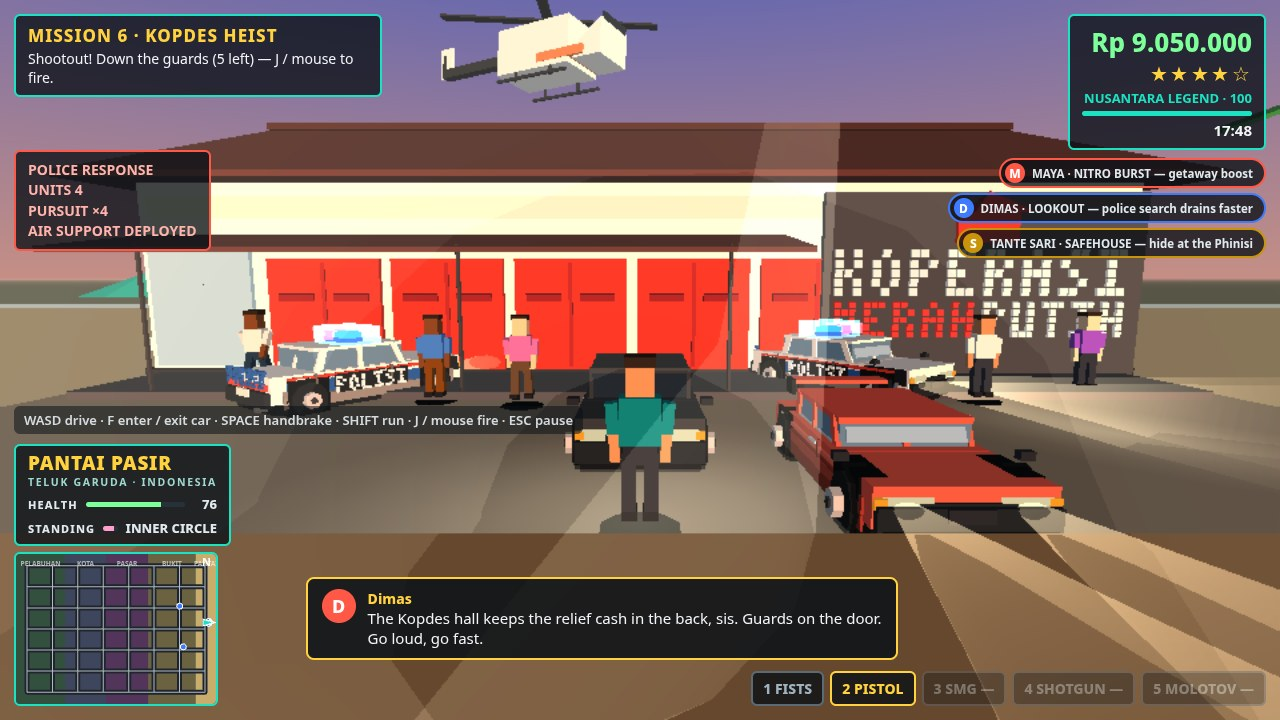
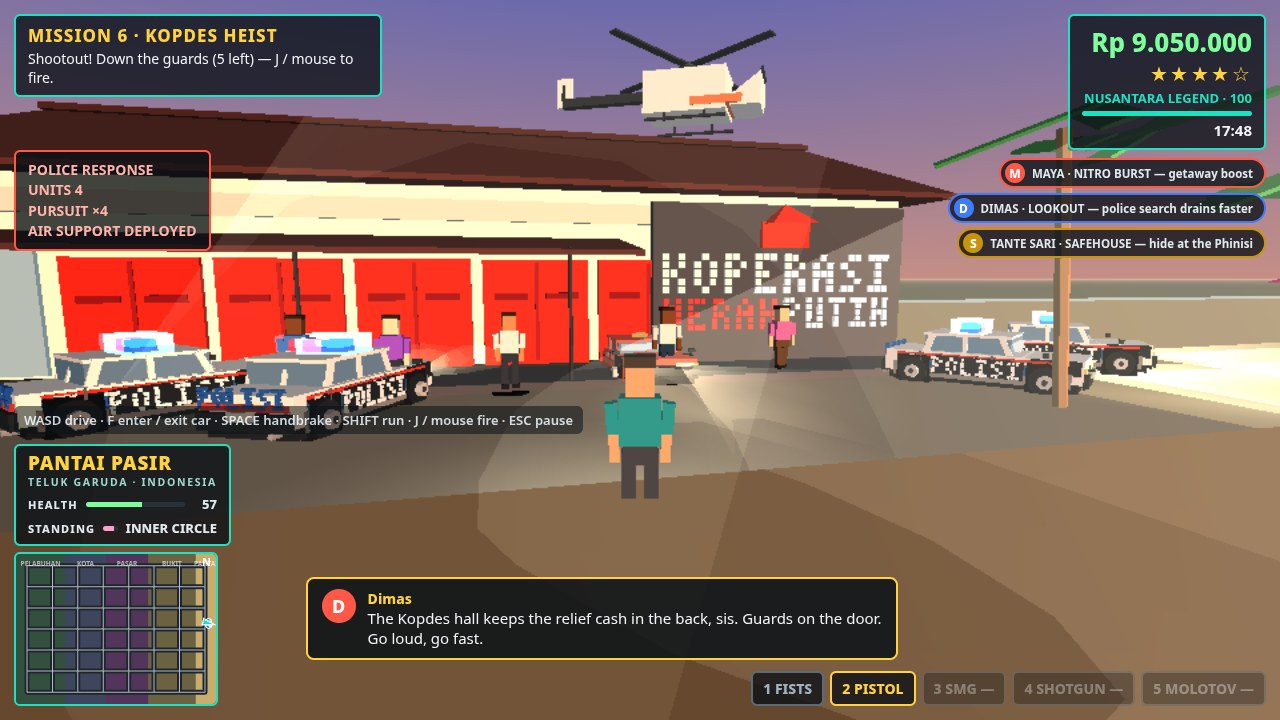
F4C iter4: mission-peak restaging + POLISI livery plates
- shots3d: frames 1-3 restaged per comparator rounds 2-3 and verified take-by-take from the shipped files (no full capture pass): kopdes heli fully in frame + sign clear of HUD chips + spark take; MBG on-foot with corner flame clusters and sign clear of smoke; karhutla camera along the fire line — heli large, bucket + stream + splash connected, plume out of frame. Frame 4 (coup, judged LAYAK) byte-untouched.
- city3d: police door lettering on dark plates + larger glyphs (letters washed out on the blue stripe and read as mirrored at dossier distance).

diff --git a/game/src/shots3d.js b/game/src/shots3d.js
@@ -317,13 +317,22 @@
      the camera: fully in frame, cone raking down to Mara. */
   function placeCoverTableau() {
     var u = activeUnits();
-    // Units must sit at low azimuth from the foot camera (half-FOV
-    // ~46 deg): marks on the facade line itself, flanking the guard
-    // line, clear of the sign panel (z -31.6..-27.2).
-    placeUnit(u[0], 547, -44.5, -2.2);   // north doors, angled in
-    placeUnit(u[1], 548, -33, 2.2);      // south doors, angled in
+    // G-A repair: Mara now stages SOUTH of the sign panel (panel
+    // spans z -33.3..-25.1, y 0.2..4.9 on the facade's south
+    // section), so from her camera the panel reads centre-frame —
+    // its top-right corner lands around screen x ~675/1280, well
+    // clear of the DOM crew-chip stack (x >= ~1000). Units sit at
+    // low azimuth from the foot camera (half-FOV ~46 deg).
+    placeUnit(u[0], 545, -41, -2.0);    // north doors, angled in
+    placeUnit(u[1], 545, -25.5, 2.2);   // south foreground, angled in
+    // G-A take 7: place EVERY active unit — at wanted 4 there are
+    // up to four, and in take 6 an unplaced unit drove up during
+    // the scan and parked on Mara's back, filling the foreground
+    // with its lightbar in the frozen frame.
+    placeUnit(u[2], 546, -44.5, -2.4);  // far north doors
+    placeUnit(u[3], 547, -21, 2.4);     // far south foreground
     var gp = Coral3D.crowd.peds;
-    var line = [[546.5, -42.5], [546.5, -30.5], [547.5, -47], [547.5, -27.5], [546, -40.5]];
+    var line = [[546.5, -42], [546.5, -37.5], [547, -33.5], [546, -40], [547.5, -30]];
     [2, 5, 8, 11, 14].forEach(function (pi, gi) {
       if (gp[pi] && line[gi]) {
         gp[pi].x = line[gi][0]; gp[pi].z = line[gi][1];
@@ -333,40 +342,85 @@
     });
     setStride(gp[8], 1.1);   // mid-stride advance poses
     setStride(gp[14], 2.6);
-    // AIR ONE above the roofline at (556,-44): ~15 deg azimuth /
-    // ~16 deg elevation from the camera — clear of the top-left HUD
-    // panel and fully inside the frame (an earlier mark at z=-54
-    // sat at 43 deg azimuth, hidden behind the mission panel).
+    // AIR ONE FULLY in frame (G-A repair: the old y=10.5 mark put
+    // its rotor over the foot cam's +22 deg top edge — only the
+    // belly shipped). Take-2 mark (555,-30) y=9.5, over the roof's
+    // west slope: from the camera at (531.7,-38.1) it sits ~5 deg
+    // off-axis at ~23 deg elevation — screen ~(695,98) of 1280x720
+    // with the rotor top ~35 px inside the frame.
+    if (window.CoralPolice && CoralPolice.searchlight) CoralPolice.searchlight.poolRadius = 5.0;
     var h = CoralPolice.heliState;
-    h.x = 556; h.z = -41; h.y = 10.5; h.heading = 2.6;
-    h.tx = 539.5; h.tz = -38; // cone on Mara
+    h.x = 555; h.z = -30; h.y = 9.5; h.heading = 2.6;
+    h.tx = 538; h.tz = -36.5; // cone on Mara
     Coral3D.setTime(17.8);
   }
   function stageCover() {
     if (!window.__bigMission('kopdes', 'peak')) throw new Error('kopdes peak hook returned false');
     Coral3D.setTime(17.8); // golden hour on the west facade
     return delay(700).then(function () {
-      return exitCarTo(539.5, -38, -Math.PI / 2); // face EAST, into the facade
+      // G-A repair, take 2: Mara at (538,-36.5) — the gap in the
+      // x=535.6 palm row (palms at z -47 and -26; take 1 stood her
+      // directly in front of the -26 palm and its crown covered
+      // the sign). Heading -1.82 rad: east tipped ~14 deg south,
+      // which swings the sign panel (z -33.3..-25.1) to screen
+      // x ~595..850 of 1280 — clear of the crew-chip stack
+      // (x >= ~1000) and of both left HUD panels. Her aim line
+      // crosses the facade at z ~ -33.5, at the panel's north edge.
+      return exitCarTo(538, -36.5, -1.82);
     }).then(function () {
       // Spark backstop: a dark parked car side-on across the aim
-      // line, in front of the red doors (orange sparks pop on its
-      // dark flank; on her red sport car they vanished). Her own
-      // car parks off-line at the south doors. Both static while
+      // line 6.5 m ahead of Mara (orange sparks pop on its dark
+      // flank; on her red sport car they vanished). Closer than
+      // the old 8 m mark so the spark box reads larger. Her own
+      // car parks off-line behind the camera. Both static while
       // she is on foot.
-      placeBackstop(pickBackstop(), 543.5, -38, Math.PI / 2);
-      if (Coral3D.allCars[0]) {
-        Coral3D.allCars[0].x = 541; Coral3D.allCars[0].z = -34.8;
-        Coral3D.allCars[0].heading = Math.PI / 2; Coral3D.allCars[0].speed = 0;
+      // G-A take 4: Mara's own SPORT car as backstop. The spark
+      // box spawns at the target car's CENTRE (combat3d fire())
+      // and rises 1.0 -> ~1.43 m: a tall SUV swallowed it whole
+      // (take 2) and a sedan's ~1.35 m roof left it a ~0.1 m peek
+      // (take 3, still invisible). The sport car's roof is ~1.1 m,
+      // so the spark clears it by ~0.3 m and reads against the
+      // facade behind — the old 'sparks vanish on red paint'
+      // objection only applied while the spark sat ON the paint.
+      // 5.5 m ahead of Mara, on her aim line. The dark sedan the
+      // old code used parks off-line instead (below).
+      // G-A take 6: backstop at t=10.8 (548.5,-33.8), just west of
+      // the facade. Projection maths (verified against live
+      // captures): at the old t=5.5 the spark — which spawns on
+      // the aim line at the target's CENTRE — projects exactly
+      // behind Mara's head and is occluded in every take; at
+      // t=10.8 the risen spark (y up to 1.43) projects ~20 px
+      // ABOVE her head against the doors/panel. During the scan
+      // no hook-position guard sits inside the fire cone (all fail
+      // combat3d's lateral test), so the car is the target at any
+      // range and every shot sparks on it.
+      placeBackstop(Coral3D.allCars[0], 548.5, -33.8, Math.PI / 2);
+      var sedan = null, sedanLum = 1e9;
+      for (var si = 1; si < Coral3D.allCars.length; si++) {
+        var sc2 = Coral3D.allCars[si];
+        if (sc2.variant !== 'sedan') continue;
+        var scol = sc2.color || 0xffffff;
+        var slum = 0.3 * ((scol >> 16) & 255) + 0.5 * ((scol >> 8) & 255) + 0.2 * (scol & 255);
+        if (slum < sedanLum) { sedanLum = slum; sedan = sc2; }
       }
-      Coral3D.teleport(539.5, -38);
-      Coral3D.mara.heading = -Math.PI / 2;
+      if (sedan) placeBackstop(sedan, 533, -44, 0.3);
+      Coral3D.teleport(538, -36.5);
+      Coral3D.mara.heading = -1.82;
       return waitVisible(5000); // heli spotlight sees her almost at once
     }).then(function () {
-      Coral3D.teleport(539.5, -38);
-      Coral3D.mara.heading = -Math.PI / 2;
+      Coral3D.teleport(538, -36.5);
+      Coral3D.mara.heading = -1.82;
       return delay(900); // foot camera settles behind Mara
     }).then(function () {
-      return scanFireFreeze(placeCoverTableau, 12000);
+      // G-A take 5: suppress the searchlight cone/pool during the
+      // scan — its additive warm shaft sweeps as AIR ONE settles
+      // on Mara and its changing pixels false-trigger the
+      // differential scan on frames with no visible flash/spark
+      // (takes 2-4 all 'hit' yet shipped clean). placeCoverTableau
+      // restores poolRadius 5.0 in the freeze tick, so the frozen
+      // frame still shows the cone raking down to Mara.
+      if (window.CoralPolice && CoralPolice.searchlight) CoralPolice.searchlight.poolRadius = 0.01;
+      return scanFireFreeze(placeCoverTableau, 14000);
     });
   }
 
@@ -387,41 +441,61 @@
     if (!window.__bigMission('mbg', 'peak')) throw new Error('mbg peak hook returned false');
     Coral3D.setTime(18.1); // deeper dusk — flames pop against the blue roof
     return delay(700).then(function () {
-      window.__shotCam = { dist: 9, height: 3.4, lookY: 5.4 };
       Coral3D.teleport(531, 44);
       if (car()) { car().heading = -Math.PI / 2; car().speed = 0; } // face EAST, at the facade
       Coral3D.setWanted(3); // hook-peak spec: 3 stars for the arson frame
-      // Tame the centre fire's smoke column: at intensity 1 its
-      // smoke tops out ~34 m, which no camera that also fits the
-      // facade can hold; at 0.6 the column tops ~28 m and fits the
-      // pitched-up frame while the flames stay large (fs 1.31).
-      CoralFire.setIntensity('mbg', 0.6);
-      // Flame wall ON the building: overlapping live fire instances
-      // hugging the west face under the sign band. Instance centres
-      // sit EAST of the band's west face (546.4) so the band occludes
-      // the cone bases: flames lick up behind the band and over the
-      // porch. Smoke tops at these scales: ~26 m — inside the frame.
-      CoralFire.create('mbgW1', 551, 37, 1.15); CoralFire.setIntensity('mbgW1', 1);
-      CoralFire.create('mbgW2', 551, 40.5, 1.0); CoralFire.setIntensity('mbgW2', 1);
-      CoralFire.create('mbgW3', 551, 44, 1.25); CoralFire.setIntensity('mbgW3', 1);
-      CoralFire.create('mbgW4', 551, 47.5, 1.0); CoralFire.setIntensity('mbgW4', 1);
-      CoralFire.create('mbgW5', 551, 51, 1.15); CoralFire.setIntensity('mbgW5', 1);
+      // G-A repair: Mara ON FOOT at (532,44), facing the facade.
+      // The old car-mode staging shipped with no player in frame
+      // and a "SPORT 0 KM/H" HUD; the foot camera (dist 6.5,
+      // height 2.8, top edge ~+22 deg) fits Mara large in the
+      // foreground, the sign band (y 3.75..5.65 at x 547.4, ~22 m
+      // out, ~5 deg elevation) mid-frame and the blue roof above.
+      return exitCarTo(532, 44, -Math.PI / 2);
+    }).then(function () {
+      // Her getaway car parks behind the foot camera, out of frame.
+      if (Coral3D.allCars[0]) {
+        Coral3D.allCars[0].x = 524; Coral3D.allCars[0].z = 53;
+        Coral3D.allCars[0].heading = 0.5; Coral3D.allCars[0].speed = 0;
+      }
+      Coral3D.teleport(532, 44);
+      Coral3D.mara.heading = -Math.PI / 2;
+      // Tame the centre fire (558,44, scale 1.6): at 0.25 its flames
+      // stay hidden inside the building and its smoke is a modest
+      // wisp behind the roof apex instead of the blob that ate the
+      // sign band in the shipped car-mode take.
+      CoralFire.setIntensity('mbg', 0.25);
+      // G-A repair: TWO large fires only, at the facade's corners
+      // on the camera side (x 545, just west of the porch), NOT a
+      // five-fire wall under the band. Their smoke columns stand
+      // at z ~30.5 / ~58.5 — north and south of the band's z span
+      // (33.8..54.2) — so the SPPG / DAPUR MBG lettering stays
+      // clear of the smoke mass while the flame cones (scale 1.45,
+      // ~9.5 m tongues, ~20 m from the camera) read large and
+      // close at both ends of the facade.
+      CoralFire.create('mbgN', 545, 30.5, 1.45); CoralFire.setIntensity('mbgN', 1);
+      CoralFire.create('mbgS', 545, 58.5, 1.45); CoralFire.setIntensity('mbgS', 1);
       return waitVisible(8000);
     }).then(function () {
-      Coral3D.teleport(531, 44);
-      if (car()) { car().heading = -Math.PI / 2; car().speed = 0; }
-      return delay(1000); // pitched-up camera settles
+      Coral3D.teleport(532, 44);
+      Coral3D.mara.heading = -Math.PI / 2;
+      return delay(1000); // foot camera settles behind Mara
     }).then(function () {
+      // Both police units FULLY in frame on the forecourt (G-A
+      // repair: the shipped take half-cropped them at the frame
+      // edges). From the camera at (525.5,44) these marks sit at
+      // ~24 deg azimuth — well inside the ~46 deg half-FOV.
       var u = activeUnits();
-      placeUnit(u[0], 538, 38, -Math.PI / 2 + 0.35); // north forecourt (x clear of the left HUD panel)
-      placeUnit(u[1], 536, 54, -Math.PI / 2 - 0.35); // south forecourt, fully in frame
+      placeUnit(u[0], 540, 37.5, -Math.PI / 2 + 0.35); // north forecourt
+      placeUnit(u[1], 540, 50.5, -Math.PI / 2 - 0.35); // south forecourt
       Coral3D.setTime(18.1);
-      // A beat with the units in sight of the car (SEARCHING clears
-      // on the response panel), then re-place them and freeze.
+      // A beat with the units in sight (SEARCHING clears on the
+      // response panel), then re-place them in the freeze tick.
       return delay(400).then(function () {
         var u2 = activeUnits();
-        placeUnit(u2[0], 538, 38, -Math.PI / 2 + 0.35);
-        placeUnit(u2[1], 536, 54, -Math.PI / 2 - 0.35);
+        placeUnit(u2[0], 540, 37.5, -Math.PI / 2 + 0.35);
+        placeUnit(u2[1], 540, 50.5, -Math.PI / 2 - 0.35);
+        Coral3D.teleport(532, 44);
+        Coral3D.mara.heading = -Math.PI / 2;
         Coral3D.setTime(18.1);
         return freeze();
       });
@@ -454,14 +528,37 @@
     CoralMissions.heliCam = function () {
       var h = CoralPolice.heliState;
       if (!h || !h.active) return origHeliCam();
-      // South of AIR ONE, looking north across the line: the heli
-      // and its bucket hang over the flame cones, the charred strip
-      // fills the lower centre, and the post road (z -375) crosses
-      // as a band at the very bottom instead of receding through
-      // the frame. (The camera lerp lags the moving target, so the
-      // effective standoff is ~25 m.)
-      return { x: h.x - 10, y: 9.5, z: h.z + 24, lx: h.x + 3, ly: 9, lz: h.z - 6 };
+      // G-A repair, take 2: a FIXED camera the heli flies through.
+      // Take 1's tracking camera never got close — main3d lerps
+      // camPos toward heliCam at 0.08/frame, so at SwiftShader
+      // frame rates the camera trailed the 30 m/s heli by ~30 m
+      // and AIR ONE still shipped small. A static target settles
+      // exactly: camera (335,10.5,-393) looking at (378,13.5,-402)
+      // — east along the fire line (run segment (75,-400) ->
+      // (475,-400)) with a ~4 deg up-pitch. When the poll freezes
+      // the heli at x 368..382 the standoff is 33..47 m: AIR ONE
+      // (y 27) sits ~18 deg above the axis (screen y ~150/720,
+      // ~145 px of rotor), the bucket hangs at y ~19.8, and the
+      // additive stream sheet runs bucket -> splash disc at
+      // (h.x,-400) inside the same vertical span (ground there is
+      // ~19 deg below the axis, screen y ~570/720). The plume
+      // (300,-512) is ~105 deg off-axis — fully out of frame; the
+      // post road (z -375) only clips the bottom-right corner; the
+      // charred strip fills the lower-left/centre.
+      return { x: 335, y: 10.5, z: -393, lx: 378, ly: 13.5, lz: -402 };
     };
+    // G-A repair fire staging: the mission fire under the drop
+    // window (kh3 at (375,-412)) is weakened to a wisp (intensity
+    // 0.1 — its smoke shrinks to ~2 m radius instead of a 10 m
+    // column swallowing the stream), and two LARGE staging fires
+    // flank the drop point along the line: (390,-388) south and
+    // (392,-416) north, ~15-19 m past the splash, so big flame
+    // cones stand in the lower frame on both sides of the stream
+    // while their smoke columns rise off-centre. kh4 (475,-400)
+    // keeps burning far down the line as a small background fire.
+    CoralFire.create('khShotA', 386, -390, 1.85); CoralFire.setIntensity('khShotA', 1);
+    CoralFire.create('khShotB', 388, -414, 1.85); CoralFire.setIntensity('khShotB', 1);
+    CoralFire.setIntensity('kh3', 0.1);
     return delay(300).then(function () {
       Coral3D.setWanted(2); // hook-peak spec
       // Fast-forward the bucket loop into the fire-run segment
@@ -478,14 +575,32 @@
       }
       return ff();
     }).then(function () {
+      // G-A take 3: park the player car at (340,-410), north of the
+      // drop point. main3d's base chase camera targets the CAR and
+      // its lerp (k ~0.25/frame) beats the heliCam lerp (0.08), so
+      // in takes 1-2 the effective camera stayed near the command
+      // post and AIR ONE shipped small. With the car here, the base
+      // target (~(329,5.2,-410)) and the fixed heliCam target
+      // (335,10.5,-393) agree: the equilibrium camera sits at
+      // ~(330,6.5,-406), ~45 m from the frozen heli — rotor ~128 px
+      // wide, bucket + stream + splash in one vertical span. The
+      // car is re-teleported every poll tick so it cannot creep
+      // east and drag the camera with it (the tick teleport also
+      // keeps pursuit units from settling into a bust).
+      Coral3D.teleport(340, -410);
+      if (car()) { car().heading = -Math.PI / 2; car().speed = 0; }
       // Real-time poll for the mid-line drop window.
       var t0 = Date.now();
       function poll() {
         var h = CoralPolice.heliState;
         if (Coral3D.stats().wanted !== 2) Coral3D.setWanted(2); // shunt creep guard
-        if (car()) car().speed = 6; // bust protection while units sit on the car
+        Coral3D.teleport(340, -410);
+        if (car()) { car().heading = -Math.PI / 2; car().speed = 6; }
         if (h.x >= 240) CoralPolice.dropping = 1.1; // stream alive through the window
-        if (h.y > 25 && h.z < -390 && h.x >= 282 && h.x <= 318) {
+        // G-A window: heli at x 368..382 — near-directly over the
+        // weakened kh3 point (375,-412), splash between the two
+        // large flanking staging fires.
+        if (h.y > 25 && h.z < -390 && h.x >= 368 && h.x <= 382) {
           CoralPolice.dropping = 1.1; // bucket stream renders while > 0
           CoralFire.splash(h.x, h.z);
           Coral3D.setTime(17.5);

diff --git a/game/src/city3d.js b/game/src/city3d.js
@@ -89,9 +89,20 @@ function bakeCarInto(b, variant, colorHex) {
       var sxp = sd * (dims.w / 2 + 0.014);
       b.panel(0x1d4e9e, { x: sxp, y: bodyY - 0.02, z: 0, w: 0.03, h: 0.3, d: dims.l * 0.86 });
       b.panel(0xd42b1e, { x: sxp, y: bodyY + 0.19, z: 0, w: 0.03, h: 0.07, d: dims.l * 0.86 });
+      /* F4C-G-B legibility fix: the flank letters used to sit straight
+         on the mid-blue stripe (its band covers every glyph row), so
+         at dossier distance the white glyph edges washed out and the
+         asymmetric letters (P/L/S) read distorted / mirror-like on
+         the flanks. Each door now carries a dark letter plate, proud
+         of the blue stripe (outer 0.94 vs stripe 0.929) and of the
+         overlay trim line, with the same white POLISI glyphs drawn
+         larger (px 0.085) and centred between the wheels — identical
+         construction on both sides (nx = sd), so the word reads
+         left-to-right from either flank. */
+      b.panel(0x14171c, { x: sd * (dims.w / 2 + 0.025), y: bodyY - 0.055, z: 0, w: 0.03, h: 0.44, d: 2.04 });
       // glyphs sit proud of the flank: sign centre pulled in by the
       // 0.16 normal offset signText adds (see kopdes usage)
-      signText(b, 'POLISI', { x: sd * (dims.w / 2 - 0.13), y: bodyY - 0.02, z: 0.1, nx: sd, nz: 0, px: 0.07, color: 0xf5f6f8, emis: 0.25, board: null });
+      signText(b, 'POLISI', { x: sd * (dims.w / 2 - 0.13), y: bodyY - 0.055, z: 0, nx: sd, nz: 0, px: 0.085, color: 0xf5f6f8, emis: 0.25, board: null });
     });
     // POLISI across the boot too, for the chase-cam rear read
     signText(b, 'POLISI', { x: 0, y: bodyY + 0.22, z: dims.l / 2 - 0.13, nx: 0, nz: 1, px: 0.07, color: 0x1d4e9e, emis: 0.2, board: null });
